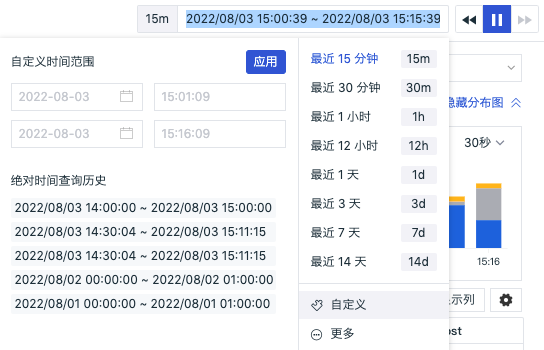
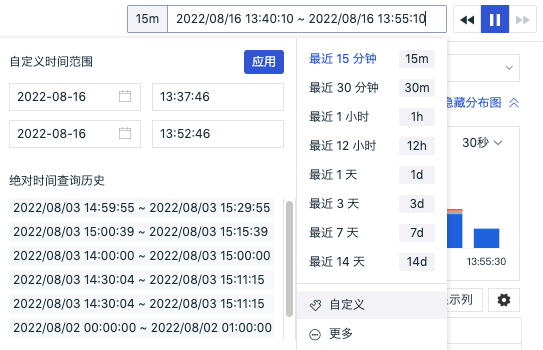
时间控件和筛选历史更新

diff --git a/docs/getting-started/necessary-for-beginners/explorer-search.md b/docs/getting-started/necessary-for-beginners/explorer-search.md
@@ -214,15 +214,44 @@
 
 
 
+## 筛选历史说明
+
+观测云支持在筛选历史保存查看器 `key:value` 的搜索条件历史，在当前工作空间，您可以在不同的查看器使用历史搜索条件。
+
+- 打开筛选历史：支持通过点击查看器右下角的展开小图标，或者直接通过快捷键（ Mac OS: shift+cmd+k / Windows: shift+ctrl+k ）快速打开筛选历史；
+- 收起筛选历史：点击关闭按钮 `x` 或者使用 `ECS` 按键可收起筛选历史。
+
+注意：筛选历史仅支持在本地浏览器保存当前用户的搜索条件。
+
+![](../img/1.filter_history_2.png)
+
+### 操作说明
+
+在查看器筛选历史最多保存 100 条搜索条件，支持通过键盘上下切换键（↑ ↓ ），切换选择搜索条件。
+
+- 固定到筛选：鼠标放在筛选历史，可通过右侧“固定到筛选”按钮置顶搜索条件；
+- 添加到筛选：点击搜索条件，即可添加到查看器进行筛选，支持多选；
+- 取消筛选：添加到筛选后，再次点击搜索条件，即可取消筛选。
+
+![](../img/1.filter_history_1.png)
+
+- 在不同查看器应用筛选历史：在日志查看器保存了筛选历史，可直接在链路等其他查看器直接使用。
+
+![](../img/1.filter_history_3.png)
+
+
+
 ## 时间控件说明 {#time}
 
 观测云支持通过时间控件控制当前查看器的数据展示范围，用户可以手动输入时间范围，或快速选择当前查看器的内置时间范围，或通过自定义设置时间范围。
 
 ### 手动输入时间范围
 
-时间控件默认支持区间显示，支持点击时间控件的显示框手动输入时间范围，输入完成后「回车」或者「点击任意空白区域」即可按照输入的时间范围筛选查看对应的数据。手动输入方式包括「区间范围」、「标准时间格式」和「时间戳范围」。
+时间控件默认支持区间显示，支持点击时间控件查看手动输入时间范围的格式，包括「时间区间」、「绝对时间」和「时间戳」，输入完成后「回车」或者「点击任意空白区域」即可按照输入的时间范围筛选查看对应的数据。
 
-#### 输入区间范围
+![](../img/7.timestamp_6.0.png)
+
+#### 输入时间区间
 
 输入区间范围支持秒、分、时、天 4 种单位，如 1s、1m、1h、1d 等，如下图所示输入 20m。
 
@@ -234,21 +263,17 @@
 
 ![](../img/7.timestamp_6.1.png)
 
-
-
-#### 输入标准时间格式
+#### 输入绝对时间
 
 标准时间格式支持 `2022/08/04 09:30:00~2022/08/04 10:00:00` / `2022/08/04 09:30:00-2022/08/04 10:00:00` / `2022/08/04 09:30:00,2022/08/04 10:00:00` 多种写法，时间格式精确到秒级，间隔符 `~` 、`-` 、`,` 前后允许有空格输入，逗号必须是英文逗号。
 
 点击时间控件，可直接输入和修改标准时间格式，「回车」后按照当前的时间范围展示对应的数据。
 
-注意：若格式不符合输入要求，则无法返回正确的时间范围，如开始时间晚于结束时间、不符合 `时:分:秒` 的格式输入等。
-
 ![](../img/7.timestamp_7.png)
 
 
 
-#### 输入时间戳范围
+#### 输入时间戳
 
 输入时间戳范围支持 `1659576600000~1659578400000` / `1659576600000-1659578400000` / `1659576600000,1659578400000` 多种写法，时间戳支持到毫秒级输入，间隔符 `~` 、`-` 、`,` 前后允许有空格输入，逗号必须是英文逗号。
 
@@ -262,13 +287,33 @@
 
 
 
+#### 注意事项
+
+- 若格式不符合输入要求，则无法返回正确的时间范围，如开始时间晚于结束时间、不符合 `时:分:秒` 的格式输入等。
+
+![](../img/7.timestamp_8.png)
+
+- 时间控件的提示框和文本输入框实时联动，若输入的时间范围超过 4 位数时（包括时间区间、绝对时间和时间戳），时间控件提示框显示 `-` 。
+
+![](../img/7.timestamp_9.png)
+
+回车后显示时间范围。
+
+![](../img/7.timestamp_10.png)
+
 ### 快捷筛选
 
-时间控件中预设了多种快捷筛选时间范围，包括相近时间（最近15分钟、最近1小时、最近1天等）和相对时间（昨天、上周、上月等）。您可以在时间控件点击「更多」快速选择对应的时间范围进行数据查看。
+您可以在时间控件点击「更多」快速选择对应的时间范围进行数据查看。时间控件中预设了多种快捷筛选时间范围，包括下拉列表的“最近15分钟、最近1小时、最近1天等”和时间区间的“30s、45m、3d等“。
 
 
 
 ![](../img/7.timestamp_3.png)
+
+鼠标放在快捷筛选上，即可和输入框内容进行实时联动，点击即可查看对应时间范围的数据内容。
+
+![](../img/7.timestamp_3.1.png)
+
+#### 
 
 ### 自定义时间范围
 
